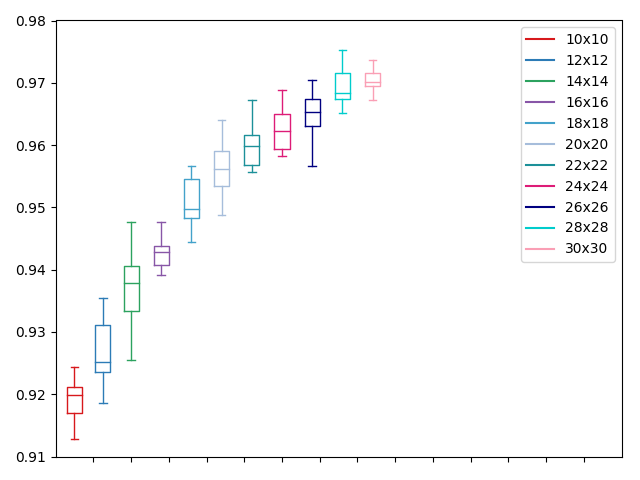
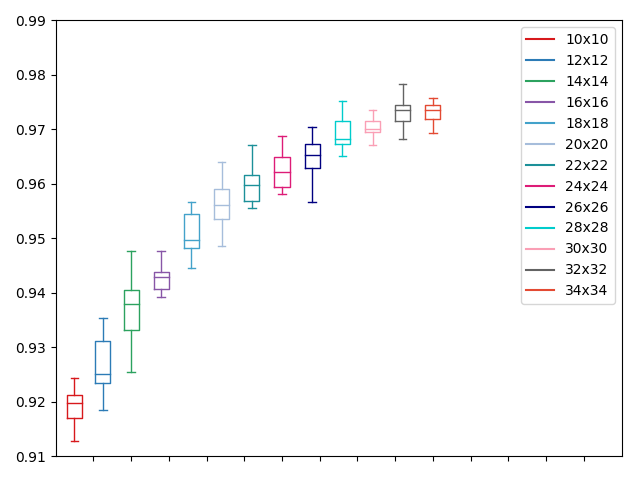
Finish Grid

diff --git a/Projeto/plot/GridSize/Accuracy/accuracyPlotData.py b/Projeto/plot/GridSize/Accuracy/accuracyPlotData.py
@@ -12,9 +12,9 @@ data_h = [[0.9609,0.9582,0.9688,0.9635,0.9651,0.9646,0.9588,0.9667,0.9598,0.9593
 data_i = [[0.963,0.9567,0.963,0.9678,0.9662, 0.9704,0.9688,0.9593,0.9656,0.9651]]
 data_j = [[0.9672,0.9683,0.9704,0.972,0.972,0.9678,0.9752,0.9604,0.9651,0.9683]]
 data_k = [[0.972,0.9651,0.9672,0.9704,0.973,0.9736,0.9699,0.9693,0.9704,0.9699]]
-data_l = [[0.9715]]
-#data_m = [[3,1,5]]
-#data_n = [[4,1,3]]
+data_l = [[0.9715,0.9704,0.973,0.9741,0.9683,0.9746,0.9783,0.9741,0.972,0.9767]]
+data_m = [[0.9741,0.972,0.9741,0.973,0.972,0.9704,0.9757,0.9693,0.9757,0.9746]]
+data_n = [[0.9767,0.9736,0.9715,0.9762,0.9762,0.9804,0.9693]]
 #data_o = [[4,1,2]]
 
 ticks = ['', '', '', '','', '', '', '','', '', '', '', '', '']
@@ -39,8 +39,8 @@ bpy = plt.boxplot(data_i, positions=np.array(range(len(data_i)))*2.0+11.6, sym='
 bpz = plt.boxplot(data_j, positions=np.array(range(len(data_j)))*2.0+13.2, sym='', widths=0.8)
 bpa = plt.boxplot(data_k, positions=np.array(range(len(data_k)))*2.0+14.8, sym='', widths=0.8)
 bpb = plt.boxplot(data_l, positions=np.array(range(len(data_l)))*2.0+16.4, sym='', widths=0.8)
-#bpc = plt.boxplot(data_m, positions=np.array(range(len(data_m)))*2.0+18.0, sym='', widths=0.8)
-#bpd = plt.boxplot(data_n, positions=np.array(range(len(data_n)))*2.0+19.6, sym='', widths=0.8)
+bpc = plt.boxplot(data_m, positions=np.array(range(len(data_m)))*2.0+18.0, sym='', widths=0.8)
+bpd = plt.boxplot(data_n, positions=np.array(range(len(data_n)))*2.0+19.6, sym='', widths=0.8)
 #bpe = plt.boxplot(data_o, positions=np.array(range(len(data_o)))*2.0+21.2, sym='', widths=0.8)
 
 set_box_color(bpl, '#D7191C') 
@@ -55,8 +55,8 @@ set_box_color(bpy, '#000080')
 set_box_color(bpz, '#00cccc')
 set_box_color(bpa, '#fa9fb5')
 set_box_color(bpb, '#636363')
-#set_box_color(bpc, '#e34a33')
-#set_box_color(bpd, '#fdbb84')
+set_box_color(bpc, '#e34a33')
+set_box_color(bpd, '#fdbb84')
 #set_box_color(bpe, '#9ebcda')
 
 # draw temporary red and blue lines and use them to create a legend
@@ -72,13 +72,13 @@ plt.plot([], c='#000080', label='26x26')
 plt.plot([], c='#00cccc', label='28x28')
 plt.plot([], c='#fa9fb5', label='30x30')
 plt.plot([], c='#636363', label='32x32')
-#plt.plot([], c='#e34a33', label='ABC13')
-#plt.plot([], c='#fdbb84', label='ABC14')
-#plt.plot([], c='#', label='ABC15')
+plt.plot([], c='#e34a33', label='34x34')
+plt.plot([], c='#fdbb84', label='36x36')
+#plt.plot([], c='#9ebcda', label='ABC15')
 plt.legend()
 
 plt.xticks(range(0, len(ticks) * 2, 2), ticks)
 plt.xlim(-2, len(ticks)*2)
-plt.ylim(0.91, 0.98)
+plt.ylim(0.91, 0.99)
 plt.tight_layout()
 plt.savefig('boxcompare.png')

diff --git a/Projeto/plot/GridSize/Errors/errorPlotData.py b/Projeto/plot/GridSize/Errors/errorPlotData.py
@@ -4,7 +4,7 @@ import numpy as np
 data_a = [[20,20,21,18,16,23,22,19,19,16]]
 data_b = [[19,23,21,24,16,23,22,21,23,20]]
 data_c = [[18,16,17,18,19,21,18,21,21,22]]
-data_d = [[20,23,20,19,19,24,18,17,18,19]]
+data_d = [[20,22,22,19,19,23,18,17,18,19]]
 data_e = [[21,16,19,17,18,16,18,17,14,18]]
 data_f = [[16,18,16,15,19,18,19,16,14,18]]
 data_g = [[21,15,17,14,15,15,19,19,17,18]]
@@ -12,9 +12,9 @@ data_h = [[15,18,16,19,16,16,18,18,20,19]]
 data_i = [[18,21,16,14,16,17,17,19,11,14]]
 data_j = [[17,19,11,15,15,17,16,17,20,21]]
 data_k = [[14,16,16,16,15,17,15,15,17,18]]
-data_l = [[14]]
-#data_m = [[3,1,5]]
-#data_n = [[4,1,3]]
+data_l = [[14,16,15,15,17,15,16,12,17,12]]
+data_m = [[14,16,16,14,16,16,13,14,15,17]]
+data_n = [[16,13,17,14,11,14,13,12]]
 #data_o = [[4,1,2]]
 
 ticks = ['', '', '', '','', '', '', '','', '', '', '', '', '']
@@ -39,8 +39,8 @@ bpy = plt.boxplot(data_i, positions=np.array(range(len(data_i)))*2.0+11.6, sym='
 bpz = plt.boxplot(data_j, positions=np.array(range(len(data_j)))*2.0+13.2, sym='', widths=0.8)
 bpa = plt.boxplot(data_k, positions=np.array(range(len(data_k)))*2.0+14.8, sym='', widths=0.8)
 bpb = plt.boxplot(data_l, positions=np.array(range(len(data_l)))*2.0+16.4, sym='', widths=0.8)
-#bpc = plt.boxplot(data_m, positions=np.array(range(len(data_m)))*2.0+18.0, sym='', widths=0.8)
-#bpd = plt.boxplot(data_n, positions=np.array(range(len(data_n)))*2.0+19.6, sym='', widths=0.8)
+bpc = plt.boxplot(data_m, positions=np.array(range(len(data_m)))*2.0+18.0, sym='', widths=0.8)
+bpd = plt.boxplot(data_n, positions=np.array(range(len(data_n)))*2.0+19.6, sym='', widths=0.8)
 #bpe = plt.boxplot(data_o, positions=np.array(range(len(data_o)))*2.0+21.2, sym='', widths=0.8)
 
 set_box_color(bpl, '#D7191C') 
@@ -55,8 +55,8 @@ set_box_color(bpy, '#000080')
 set_box_color(bpz, '#00cccc')
 set_box_color(bpa, '#fa9fb5')
 set_box_color(bpb, '#636363')
-#set_box_color(bpc, '#e34a33')
-#set_box_color(bpd, '#fdbb84')
+set_box_color(bpc, '#e34a33')
+set_box_color(bpd, '#fdbb84')
 #set_box_color(bpe, '#9ebcda')
 
 # draw temporary red and blue lines and use them to create a legend
@@ -72,9 +72,9 @@ plt.plot([], c='#000080', label='26x26')
 plt.plot([], c='#00cccc', label='28x28')
 plt.plot([], c='#fa9fb5', label='30x30')
 plt.plot([], c='#636363', label='32x32')
-#plt.plot([], c='#e34a33', label='ABC13')
-#plt.plot([], c='#fdbb84', label='ABC14')
-#plt.plot([], c='#', label='ABC15')
+plt.plot([], c='#e34a33', label='34x34')
+plt.plot([], c='#fdbb84', label='36x36')
+#plt.plot([], c='#9ebcda', label='ABC15')
 
 plt.legend()
 
